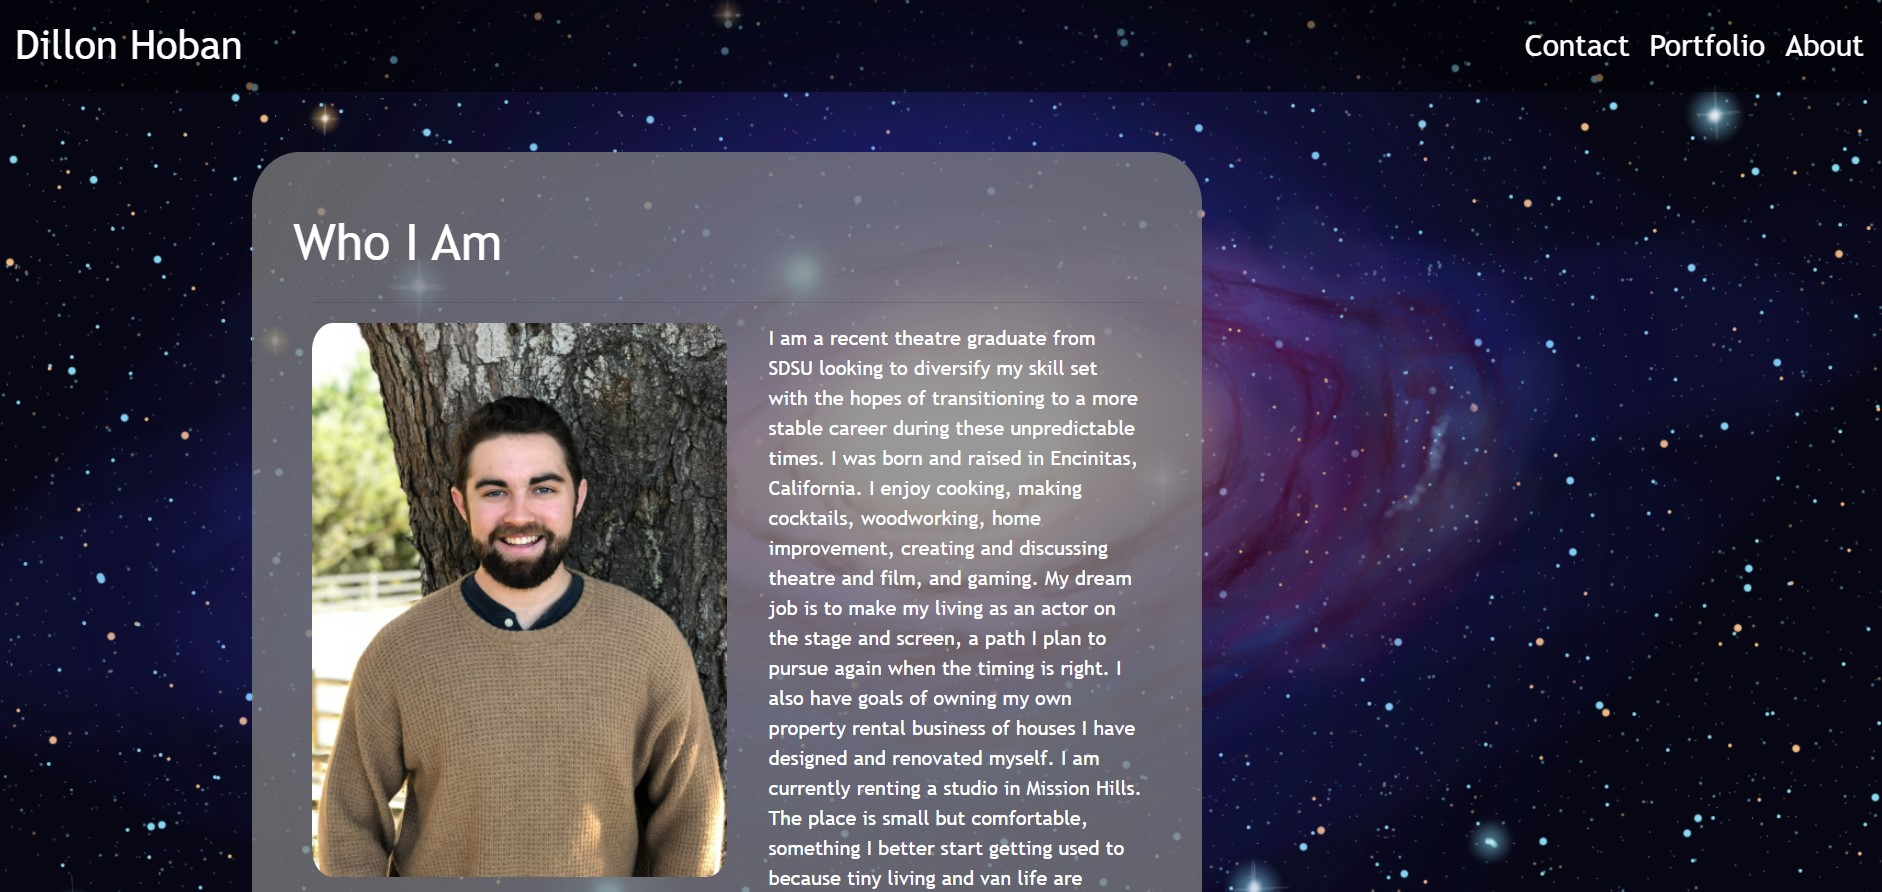
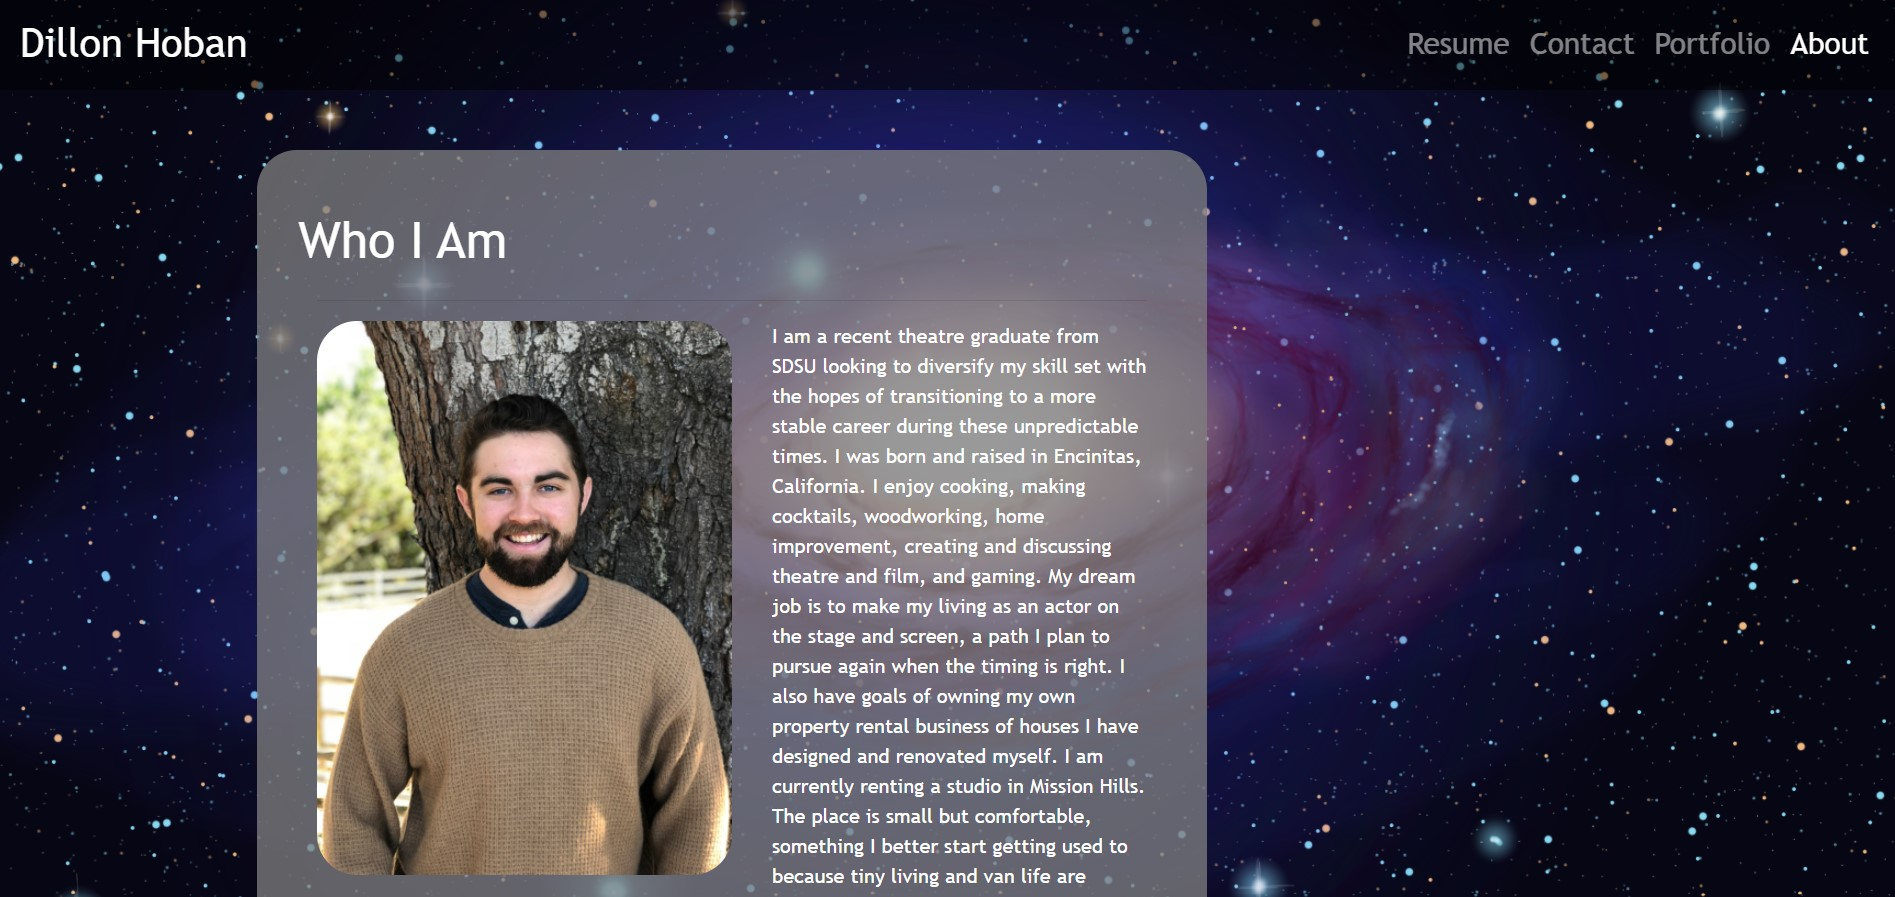
updating readme

diff --git a/contact.html b/contact.html
@@ -10,6 +10,7 @@
   <link rel="stylesheet" href="Assets/css/style.css">
   <link rel="shortcut icon" href="Assets/images/favicon.ico" type="image/x-icon">
   <link rel="icon" href="Assets/images/favicon.ico" type="image/x-icon">
+  <link rel="stylesheet" href="https://maxcdn.bootstrapcdn.com/font-awesome/4.7.0/css/font-awesome.min.css">
 </head>
 
 <body>
@@ -95,7 +96,7 @@
           </form>
 
           <div class="text-center text-md-left">
-            <a class="btn btn-light" onclick="document.getElementById('contact-form').submit();">Send</a>
+            <a class="btn btn-light" onclick="document.getElementById('contact-form').submit();"><span class="fa fa-paper-plane-o"></span> Send</a>
           </div>
           <div class="status"></div>
         </div>

diff --git a/index.html b/index.html
@@ -77,7 +77,7 @@
               <p>I want to be a web developer because I believe the skills required are incredibly versatile and
                 valuable in almost every area I am interested in. You cannot operate a business in this day and age
                 without a website and I have seen first hand at my current job the havoc a poorly designed website can
-                wreak on the operations of an enterprise. I want to be part of the solution for turning business
+                wreak on the operations of an company. I want to be part of the solution for turning business
                 concepts into a reality.
               </p>
             </div>

diff --git a/README.md b/README.md
@@ -1,4 +1,4 @@
-# Hello I am Dillon and this is my Portfolio
+# Hello! My name is Dillon and welcome to my Portfolio :)
 
 ![Homepage image](Assets/images/sc_for_readme.jpg)
 
@@ -6,10 +6,11 @@
 
 I am a student in the UCSD Coding Bootcamp expecting to graduate in March of 2021. This is my first portfolio site! As you can see there are many more elements to add and this will be a work in progress throughout the course. This site was built utilizing HTML, CSS, and Bootstrap. 
 
-The site has three pages: 
+The site has four pages: 
 1. About contains a brief bio and headshot.
-2. Portfolio is where I will place images of my finished projects (updates to come!)
-3. Contact is a basic form that will be updated in future idiarations (see Future Updates below.)
+2. Portfolio with images and links to some of my finished projects.
+3. Contact contains a basic form that will be improved in future updates (see below.)
+4. Resume contains a downloadable PDF version of my current resume, as well as links to my GitHub and LinkedIn profiles. 
 
 All pages are styled using the same stylesheet and each have unique Bootstrap elements. 
 
@@ -19,14 +20,15 @@ Click the link [here](https://dillonhoban.github.io/Responsive_Portfolio/) to ch
 
 ## Future Updates
 
-I plan to go back and fix a few elements on my site. I want to add a JavaScript (I think it's JS although I am not 100% certain) element to my navbar to make it transparent at the top of the page but opaque when the user scrolls down. I also want to fix the small layout items in my CSS for example the alignment of my transparent grey containers is not perfectly centered. I will also be updating the contact page form to email me the submission when the user presses “Send,” again more JS work to be added soon!
+<li> revisit the navbar to fix the transparency issue
+<li> add functional JS element to the contact page so email forwarding can work
+<li> continue updating the responsive Bootstrap elements to improve mobile experience
 
 ## Validation 
 This site’s HTML was validated using a third party service found [here.](https://validator.w3.org/)
 
 ## Acknowledgments
-
-A special thank you to [Christina](https://github.com/Christina2021), [Ravi](https://github.com/ravifindravicom), [Brian](https://github.com/btparker70), and [Emily](https://github.com/ethomas22). Without you fine folks the study group would not be as awesome!
+A special thank you to [Christina](https://github.com/Christina2021), [Ravi](https://github.com/ravifindravicom), [Brian](https://github.com/btparker70), and [Emily](https://github.com/ethomas22) and all the members of the Awesome Study Group. 
 
 <p align="center">
   <img src="https://img.shields.io/badge/html5%20-%23E34F26.svg?&style=for-the-badge&logo=html5&logoColor=white" alt="HTML-Logo">
